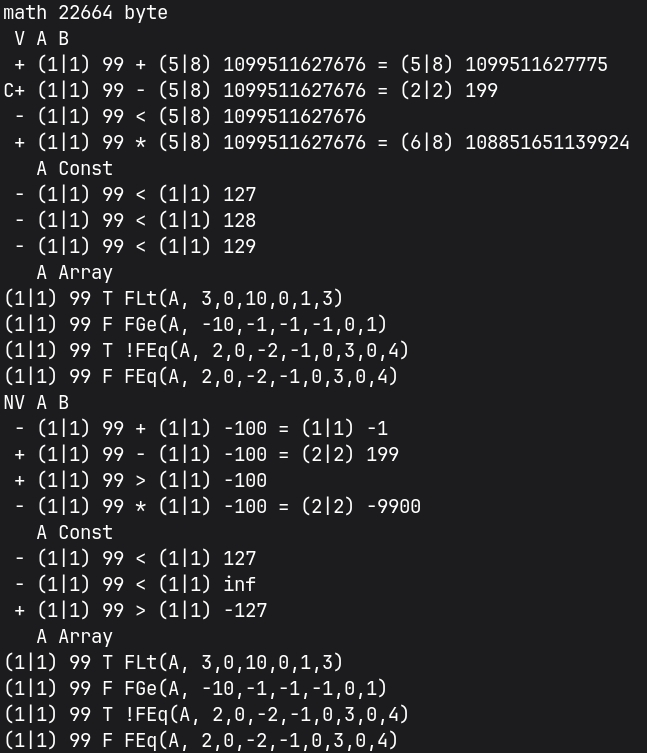
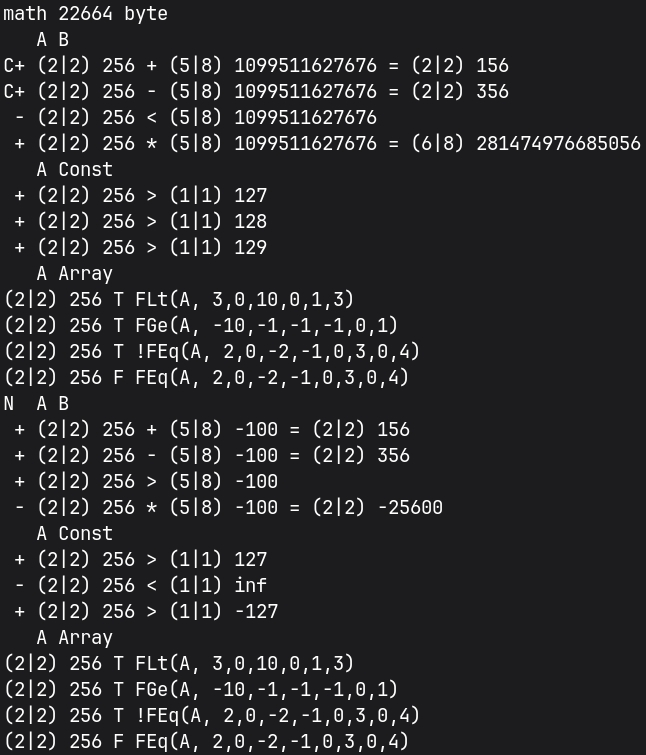
v70.4

diff --git a/math.c b/math.c
@@ -52,12 +52,12 @@ void FTST(an a, anu l, an b) { Mat.i = Mat.l; Mat.j = l; Mat.a = a; Mat.b = b;
 void FADD(an r, an a, anu l, an b) { Mat.N = l; Mat.r = r; Mat.a = a; Mat.b = b; Mat.lb = Mat.N;
   Mat.ae = Mat.a + Mat.l; Mat.u = (((Mat.x = *Mat.ae--) & 128) && Mat.Nim) ? 255:0; Mat.F = Mat.l;
   Mat.be = Mat.b + Mat.N; Mat.z = (((Mat.y = *Mat.be--) & 128) && Mat.Nim) ? 255:0; Mat.j = 0;
-  if (Mat.Nim && (!(Mat.x^128) || !(Mat.y^128))) { Mat.i = Mat.l;
-    while(Mat.i-- && !*Mat.ae--) { } Mat.j = Mat.lb; while(Mat.j-- && !*Mat.be--) { }
-    Mat.j = !((++Mat.j)|(Mat.y^128))||!((++Mat.i)|(Mat.x^128)); }
+  if (Mat.Nim && (!(Mat.x^128)|!(Mat.y^128))) { Mat.i = Mat.l; Mat.j = Mat.lb;
+    while(Mat.i && !*Mat.ae--) { Mat.i--; } while(Mat.j && !*Mat.be--) { Mat.j--; }
+    Mat.j = !(Mat.i|(Mat.x^128))|!(Mat.j|(Mat.y^128)); }
   if (!Mat.V && Mat.l < Mat.N) { Mat.be = Mat.b + Mat.N;
     while(*Mat.be-- == Mat.z && Mat.N && !((*Mat.be ^ Mat.z) & 128)) { Mat.N--; }
-    if (Mat.l < Mat.N) { Mat.j++; Mat.N = Mat.l; } } Mat.ae = Mat.r; Mat.be = Mat.b;
+    if (Mat.l < Mat.N) { Mat.N = Mat.l; Mat.j++; } } Mat.ae = Mat.r; Mat.be = Mat.b;
   Mat.i = (Mat.F > Mat.N) ? Mat.N:Mat.F; Mat.F -= Mat.i; Mat.N -= Mat.i; Mat.C = (Mat.C != 0);
   do { Mat.x = *Mat.a++; Mat.y = (*Mat.ae++ = Mat.x + *Mat.be++ + Mat.C);
     Mat.C = (Mat.x > Mat.y) || (Mat.C && Mat.y == Mat.x); } while(Mat.i--);
@@ -68,9 +68,9 @@ void FADD(an r, an a, anu l, an b) { Mat.N = l; Mat.r = r; Mat.a = a; Mat.b = b;
   Mat.x = --Mat.ae - Mat.r; Mat.N = (Mat.Nim && (Mat.y & 128)) ? 255:0;
   while(*Mat.ae-- == Mat.N && Mat.x && !((*Mat.ae ^ Mat.N) & 128)) { Mat.x--; } Mat.i = Mat.x;
   Mat.y = *(Mat.be = ++Mat.ae); while(Mat.i-- && !*--Mat.be) { } Mat.F = !(++Mat.i | Mat.y);
-  if (Mat.Nim) { Mat.C = (Mat.u != Mat.N && !(Mat.u ^ Mat.z)) || (!Mat.i && Mat.y == 128);
-    if (Mat.C && Mat.x != 255 && (Mat.V || (!Mat.V && Mat.x < Mat.l))) { Mat.x++; Mat.C--;
-      Mat.N = (!Mat.i && Mat.y == 128) ? Mat.N:~Mat.N; Mat.F = (!(Mat.i | Mat.y | Mat.N));
+  if (Mat.Nim) { Mat.C = (Mat.u != Mat.N && !(Mat.u ^ Mat.z)) || !(Mat.i|(Mat.y^128));
+    if (Mat.C && Mat.x != 255 && (Mat.V || Mat.x < Mat.l)) { Mat.x++; Mat.C--;
+      Mat.N = !(Mat.i|(Mat.y^128)) ? Mat.N:~Mat.N; Mat.F = (!(Mat.i | Mat.y | Mat.N));
       *++Mat.ae = Mat.N; } if (Mat.C || Mat.j) { Mat.i = (Mat.l = Mat.V ? 0:Mat.l); Mat.F = 2;
       Mat.N = 255; Mat.C = 0; while(Mat.i--) { *Mat.r++ = 0; } *Mat.r = 128; return; } }
   Mat.C |= Mat.j; if (!Mat.V && Mat.x < Mat.l) { Mat.i = Mat.l - Mat.x;
@@ -79,12 +79,12 @@ void FADD(an r, an a, anu l, an b) { Mat.N = l; Mat.r = r; Mat.a = a; Mat.b = b;
 void FSUB(an r, an a, anu l, an b) { Mat.N = l; Mat.r = r; Mat.a = a; Mat.b = b; Mat.lb = Mat.N;
   Mat.ae = Mat.a + Mat.l; Mat.u = (((Mat.x = *Mat.ae--) & 128) && Mat.Nim) ? 255:0; Mat.F = Mat.l;
   Mat.be = Mat.b + Mat.N; Mat.z = (((Mat.y = *Mat.be--) & 128) && Mat.Nim) ? 255:0; Mat.j = 0;
-  if (Mat.Nim && (!(Mat.x^128) || !(Mat.y^128))) { Mat.i = Mat.l;
-    while(Mat.i-- && !*Mat.ae--) { } Mat.j = Mat.lb; while(Mat.j-- && !*Mat.be--) { }
-    Mat.j = !((++Mat.j)|(Mat.y^128))||!((++Mat.i)|(Mat.x^128)); }
+  if (Mat.Nim && (!(Mat.x^128)|!(Mat.y^128))) { Mat.i = Mat.l; Mat.j = Mat.lb;
+    while(Mat.i && !*Mat.ae--) { Mat.i--; } while(Mat.j && !*Mat.be--) { Mat.j--; }
+    Mat.j = !(Mat.i|(Mat.x^128))|!(Mat.j|(Mat.y^128)); }
   if (!Mat.V && Mat.l < Mat.N) { Mat.be = Mat.b + Mat.N;
     while(*Mat.be-- == Mat.z && Mat.N && !((*Mat.be ^ Mat.z) & 128)) { Mat.N--; }
-    if (Mat.l < Mat.N) { Mat.j++; Mat.N = Mat.l; } } Mat.ae = Mat.r; Mat.be = Mat.b;
+    if (Mat.l < Mat.N) { Mat.N = Mat.l; Mat.j++; } } Mat.ae = Mat.r; Mat.be = Mat.b;
   Mat.i = (Mat.F > Mat.N) ? Mat.N:Mat.F; Mat.F -= Mat.i; Mat.N -= Mat.i; Mat.C = (Mat.C != 0);
   do { Mat.x = *Mat.a++; Mat.y = (*Mat.ae++ = Mat.x - *Mat.be++ - Mat.C);
     Mat.C = (Mat.x < Mat.y) || (Mat.C && Mat.y == Mat.x); } while(Mat.i--);
@@ -95,9 +95,9 @@ void FSUB(an r, an a, anu l, an b) { Mat.N = l; Mat.r = r; Mat.a = a; Mat.b = b;
   Mat.x = --Mat.ae - Mat.r; Mat.N = (Mat.Nim && (Mat.y & 128)) ? 255:0;
   while(*Mat.ae-- == Mat.N && Mat.x && !((*Mat.ae ^ Mat.N) & 128)) { Mat.x--; } Mat.i = Mat.x;
   Mat.y = *(Mat.be = ++Mat.ae); while(Mat.i-- && !*--Mat.be) { } Mat.F = !(++Mat.i | Mat.y);
-  if (Mat.Nim) { Mat.C = ((Mat.u ^ Mat.z) && (Mat.u ^ Mat.N)) || (!Mat.i && Mat.y == 128);
-    if (Mat.C && Mat.x != 255 && (Mat.V || (!Mat.V && Mat.x < Mat.l))) { Mat.x++; Mat.C--;
-      Mat.N = (!Mat.i && Mat.y == 128) ? Mat.N:~Mat.N; Mat.F = (!(Mat.i | Mat.y | Mat.N));
+  if (Mat.Nim) { Mat.C = ((Mat.u ^ Mat.z) && (Mat.u ^ Mat.N)) || !(Mat.i|(Mat.y^128));
+    if (Mat.C && Mat.x != 255 && (Mat.V || Mat.x < Mat.l)) { Mat.x++; Mat.C--;
+      Mat.N = !(Mat.i|(Mat.y^128)) ? Mat.N:~Mat.N; Mat.F = (!(Mat.i | Mat.y | Mat.N));
       *++Mat.ae = Mat.N; } if (Mat.C || Mat.j) { Mat.i = (Mat.l = Mat.V ? 0:Mat.l); Mat.F = 2;
       Mat.N = 255; Mat.C = 0; while(Mat.i--) { *Mat.r++ = 0; } *Mat.r = 128; return; } }
   Mat.C |= Mat.j; if (!Mat.V && Mat.x < Mat.l) { Mat.i = Mat.l - Mat.x;

diff --git a/main.c b/main.c
@@ -36,5 +36,5 @@ void Test(void) { Faddr((As)Mat.B); Flong(lb,la); anu t,i = 2; printf("%c%c A B\
   Num(la, Mat.A); printf("%c !FEq(A, 2,0,-2,-1,0,3,0,4)\n", !FEq(Mat.A, 2,0,-2,-1,0,3,0,4) ? 'T':'F');
   Num(la, Mat.A); printf("%c FEq(A, 2,0,-2,-1,0,3,0,4)\n", FEq(Mat.A, 2,0,-2,-1,0,3,0,4) ? 'T':'F'); }
 
-int main(void) { anu a[m],b[m],e[m],r[m+m]; Faddr((As)b, (As)a, (As)r, (As)e); Fini(NoSign,MatV); la = Fvbe(Mat.A, 0,99);
+int main(void) { anu a[m],b[m],e[m],r[m+m]; Faddr((As)b, (As)a, (As)r, (As)e); Fini(NoSign,MatV); la = Fvbe(Mat.A, 1,0);
   lb = Fvle(Mat.B, -100,255,255,255,255); Test(); Fset(Sign,MatV); la = Fmov(la, Mat.A); lb = Fmov(lb, Mat.B); Test(); return 0; }

diff --git a/README.md b/README.md
@@ -27,7 +27,7 @@
 P.s.: Блокировку убрали как только добавил сообщение о ней на главную страницу, длилась минут 20, как я заметил, и принял меры, чтобы сообщить об этом Вам. Это сообщение останется (20.09.2026 ~16.00 +7 UTF) как память, так что буду стараться вопреки невостребованности в России по данной области дабы остальной народ мог этим воспользоваться. Проанализируйте события с момента, как я вернулся в эту сферу (конец января 2026 выложен Products, готовый полностью, затем занялся Fresh в начале февраля 2026), всё это время обновлялся код и было забавно видеть на open.net новости - даже компании серьёзные - их как озарило - так что у меня нет желания и времени следить за соблюдением GPLv3 из России, если заметите нарушение лицензии, то гарантируется взаимовыгодное сотрудничество.
 
 <div align="center">
-  <h1>Результат запуска v70.3</h1>
+  <h1>Результат запуска v70.4</h1>
   
   <picture>
     <source media="(prefers-color-scheme: dark)" srcset="Plus/psb.jpeg">
